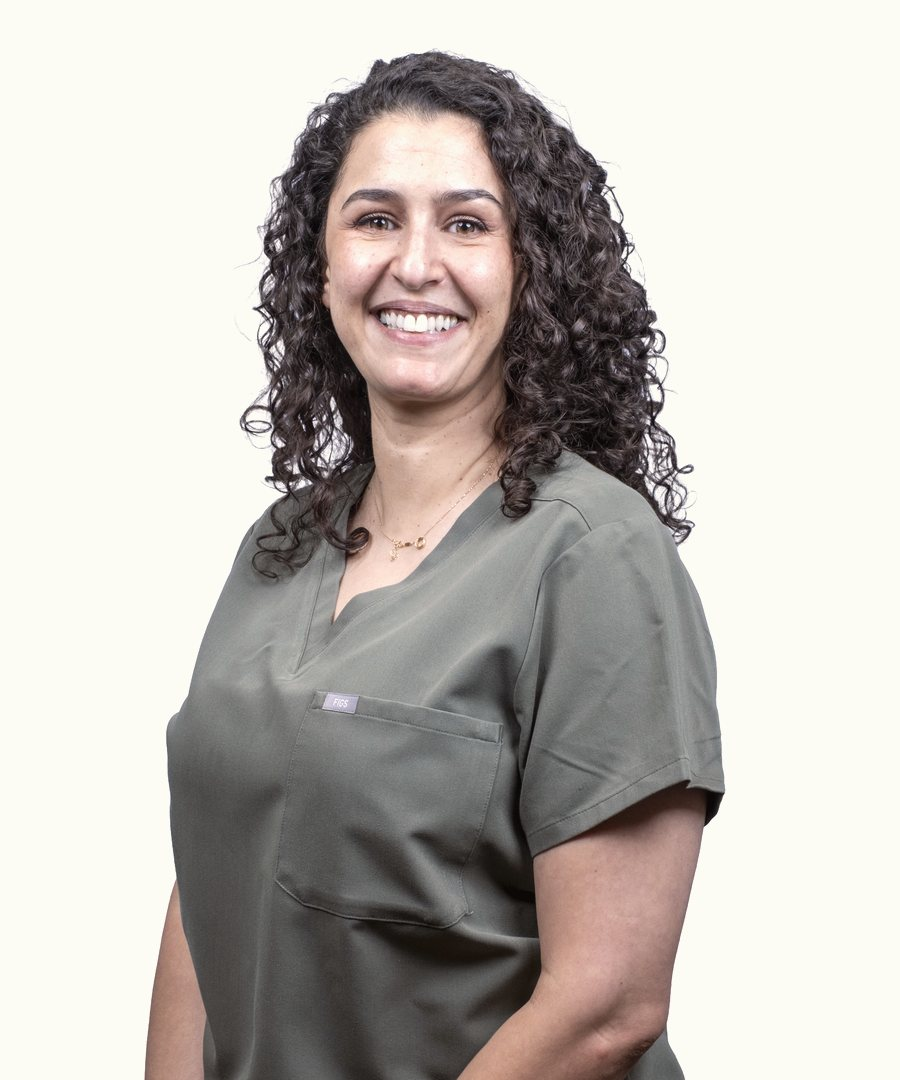
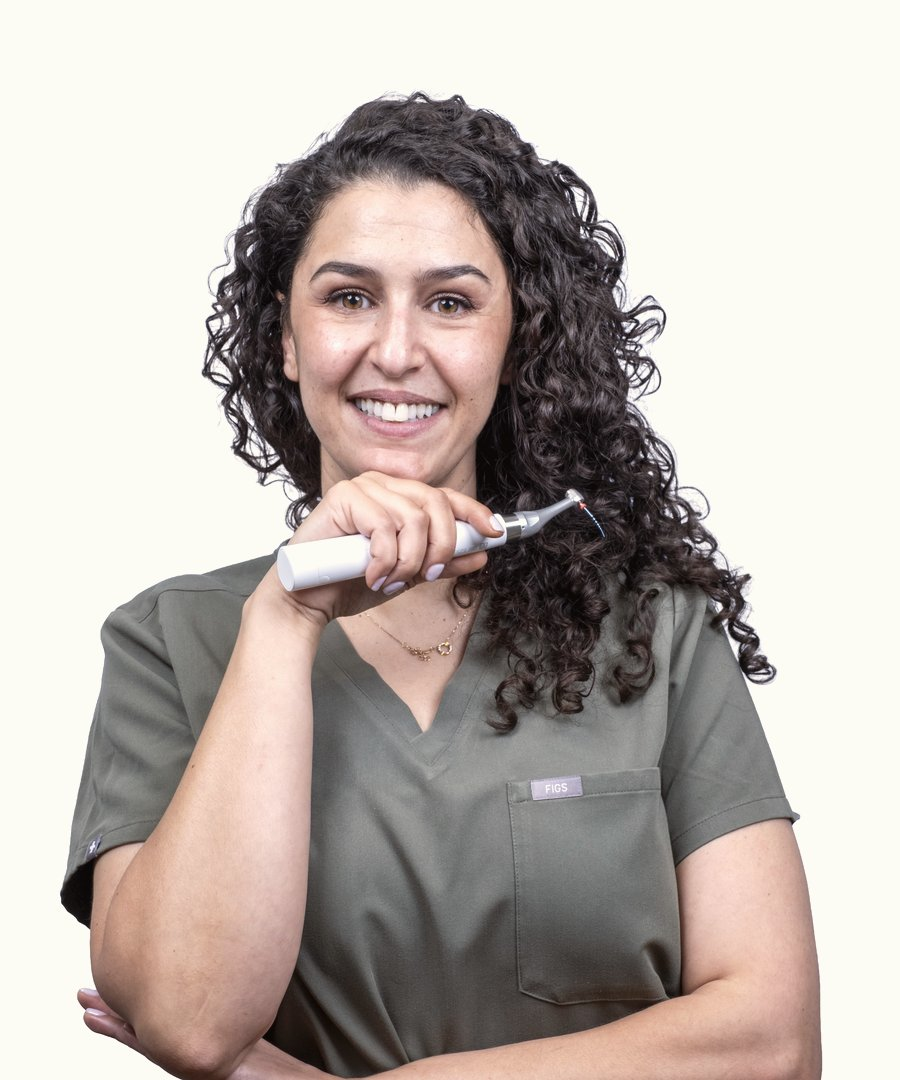
Team photo refresh (Carme, Albert, Joan, Isabel, Yasmine) + drop home trust-strip
- Carme Roure: separate photos per seu -- profile portrait for the
  Lleida featured card (carme-roure-featured), a new candid for Tremp
  (carme-roure-tremp); ATM badge restored on her card
- Albert Vim: swapped to the final approved portrait
- Joan Carrera Carrillo (Tremp), Isabel Sierra (Tremp), Yasmine El
  Messaoudi (Tremp): fresh dedicated photos instead of reused/
  placeholder shots
- Home: remove the "5,0 - 42 ressenyes" trust-strip band directly
  under the hero; the full testimonials section is untouched

diff --git a/es/equipo.html b/es/equipo.html
@@ -233,7 +233,7 @@
 
           <article class="team-card team-card--featured reveal" style="--delay:200ms">
             <div class="team-card__photo">
-              <picture><source srcset="../assets/img/equip/carme-roure.webp" type="image/webp" /><img src="../assets/img/equip/carme-roure.jpg" alt="Dra. Carme Roure Miquel" loading="lazy" decoding="async" /></picture>
+              <picture><source srcset="../assets/img/equip/carme-roure-featured.webp" type="image/webp" /><img src="../assets/img/equip/carme-roure-featured.jpg" alt="Dra. Carme Roure Miquel" loading="lazy" decoding="async" /></picture>
             </div>
             <div class="team-card__body">
               <div class="team-card__header">
@@ -241,6 +241,7 @@
                   <h3>Dra. Carme Roure Miquel</h3>
                   <span class="team-card__role">Ortodoncia · Disfunción craneomandibular · ATM</span>
                 </div>
+                <div class="team-card__badge">ATM</div>
               </div>
               <blockquote class="team-card__quote">
                 Conservar la pieza propia siempre que sea posible. Sustituirla, solo cuando es estrictamente necesario.
@@ -467,7 +468,7 @@
 
           <article class="team-card reveal" style="--delay:300ms">
             <div class="team-card__photo">
-              <picture><source srcset="../assets/img/equip/carme-roure.webp" type="image/webp" /><img src="../assets/img/equip/carme-roure.jpg" alt="Dra. Carme Roure Miquel" loading="lazy" decoding="async" /></picture>
+              <picture><source srcset="../assets/img/equip/carme-roure-tremp.webp" type="image/webp" /><img src="../assets/img/equip/carme-roure-tremp.jpg" alt="Dra. Carme Roure Miquel" loading="lazy" decoding="async" /></picture>
             </div>
             <div class="team-card__body">
               <div class="team-card__header">
@@ -488,7 +489,7 @@
 
           <article class="team-card reveal" style="--delay:0ms">
             <div class="team-card__photo">
-              <picture><source srcset="../assets/img/equip/isabel-sierra.webp" type="image/webp" /><img src="../assets/img/equip/isabel-sierra.jpg" alt="Dra. Isabel Sierra" loading="lazy" decoding="async" /></picture>
+              <picture><source srcset="../assets/img/equip/isabel-sierra-tremp.webp" type="image/webp" /><img src="../assets/img/equip/isabel-sierra-tremp.jpg" alt="Dra. Isabel Sierra" loading="lazy" decoding="async" /></picture>
             </div>
             <div class="team-card__body">
               <div class="team-card__header">

diff --git a/equip.html b/equip.html
@@ -235,7 +235,7 @@
 
           <article class="team-card team-card--featured reveal" style="--delay:200ms">
             <div class="team-card__photo">
-              <picture><source srcset="assets/img/equip/carme-roure.webp" type="image/webp" /><img src="assets/img/equip/carme-roure.jpg" alt="Dra. Carme Roure Miquel" loading="lazy" decoding="async" /></picture>
+              <picture><source srcset="assets/img/equip/carme-roure-featured.webp" type="image/webp" /><img src="assets/img/equip/carme-roure-featured.jpg" alt="Dra. Carme Roure Miquel" loading="lazy" decoding="async" /></picture>
             </div>
             <div class="team-card__body">
               <div class="team-card__header">
@@ -243,6 +243,7 @@
                   <h3>Dra. Carme Roure Miquel</h3>
                   <span class="team-card__role">Ortodòncia · Disfunció craneomandibular · ATM</span>
                 </div>
+                <div class="team-card__badge">ATM</div>
               </div>
               <blockquote class="team-card__quote">
                 Conservar la peça pròpia sempre que sigui possible. Substituir-la, només quan és estrictament necessari.
@@ -469,7 +470,7 @@
 
           <article class="team-card reveal" style="--delay:300ms">
             <div class="team-card__photo">
-              <picture><source srcset="assets/img/equip/carme-roure.webp" type="image/webp" /><img src="assets/img/equip/carme-roure.jpg" alt="Dra. Carme Roure Miquel" loading="lazy" decoding="async" /></picture>
+              <picture><source srcset="assets/img/equip/carme-roure-tremp.webp" type="image/webp" /><img src="assets/img/equip/carme-roure-tremp.jpg" alt="Dra. Carme Roure Miquel" loading="lazy" decoding="async" /></picture>
             </div>
             <div class="team-card__body">
               <div class="team-card__header">
@@ -490,7 +491,7 @@
 
           <article class="team-card reveal" style="--delay:0ms">
             <div class="team-card__photo">
-              <picture><source srcset="assets/img/equip/isabel-sierra.webp" type="image/webp" /><img src="assets/img/equip/isabel-sierra.jpg" alt="Dra. Isabel Sierra" loading="lazy" decoding="async" /></picture>
+              <picture><source srcset="assets/img/equip/isabel-sierra-tremp.webp" type="image/webp" /><img src="assets/img/equip/isabel-sierra-tremp.jpg" alt="Dra. Isabel Sierra" loading="lazy" decoding="async" /></picture>
             </div>
             <div class="team-card__body">
               <div class="team-card__header">

diff --git a/assets/css/main.css b/assets/css/main.css
@@ -2355,6 +2355,17 @@ section[id] { scroll-margin-top: 96px; }
   .team-card--featured .team-card__photo { width:100%; height:auto; aspect-ratio: 3 / 4; }
 }
 
+/* One-off: Carme's featured photo is a candid action shot (landscape
+   composition, hands + splint in frame) rather than a studio portrait —
+   give it its own box instead of forcing the usual tall crop. */
+.team-card--photo-wide .team-card__photo {
+  width:clamp(260px, 34vw, 420px);
+}
+.team-card--photo-wide .team-card__photo img { object-position:center; }
+@media (max-width:560px) {
+  .team-card--photo-wide .team-card__photo { width:100%; height:auto; aspect-ratio:4 / 3; }
+}
+
 /* ============================================================
    SERVEIS — CONSERVADORISME BAND (philosophy ahead of catalogue)
    ============================================================ */

diff --git a/index.html b/index.html
@@ -307,18 +307,6 @@
       </div>
     </div>
 
-    <!-- TRUST STRIP -->
-    <section class="trust-strip" aria-label="Confiança i experiència">
-      <div class="container">
-        <div class="trust-strip__inner reveal">
-          <div class="trust-item">
-            <span class="trust-item__num"><b>5,0</b><span class="trust-item__stars" aria-hidden="true">★</span></span>
-            <span class="trust-item__label"><a href="https://www.google.com/search?q=Estudi+Dental+Carrera+Lleida" target="_blank" rel="noopener">42 ressenyes a Google · Lleida i Tremp</a></span>
-          </div>
-        </div>
-      </div>
-    </section>
-
     <!-- NOSALTRES -->
     <section class="about" id="nosaltres">
       <div class="container">

diff --git a/es/index.html b/es/index.html
@@ -293,18 +293,6 @@
       </div>
     </div>
 
-    <!-- TRUST STRIP -->
-    <section class="trust-strip" aria-label="Confianza y experiencia">
-      <div class="container">
-        <div class="trust-strip__inner reveal">
-          <div class="trust-item">
-            <span class="trust-item__num"><b>5,0</b><span class="trust-item__stars" aria-hidden="true">★</span></span>
-            <span class="trust-item__label"><a href="https://www.google.com/search?q=Estudi+Dental+Carrera+Lleida" target="_blank" rel="noopener">42 reseñas en Google · Lleida y Tremp</a></span>
-          </div>
-        </div>
-      </div>
-    </section>
-
     <!-- NOSOTROS -->
     <section class="about" id="nosotros">
       <div class="container">
